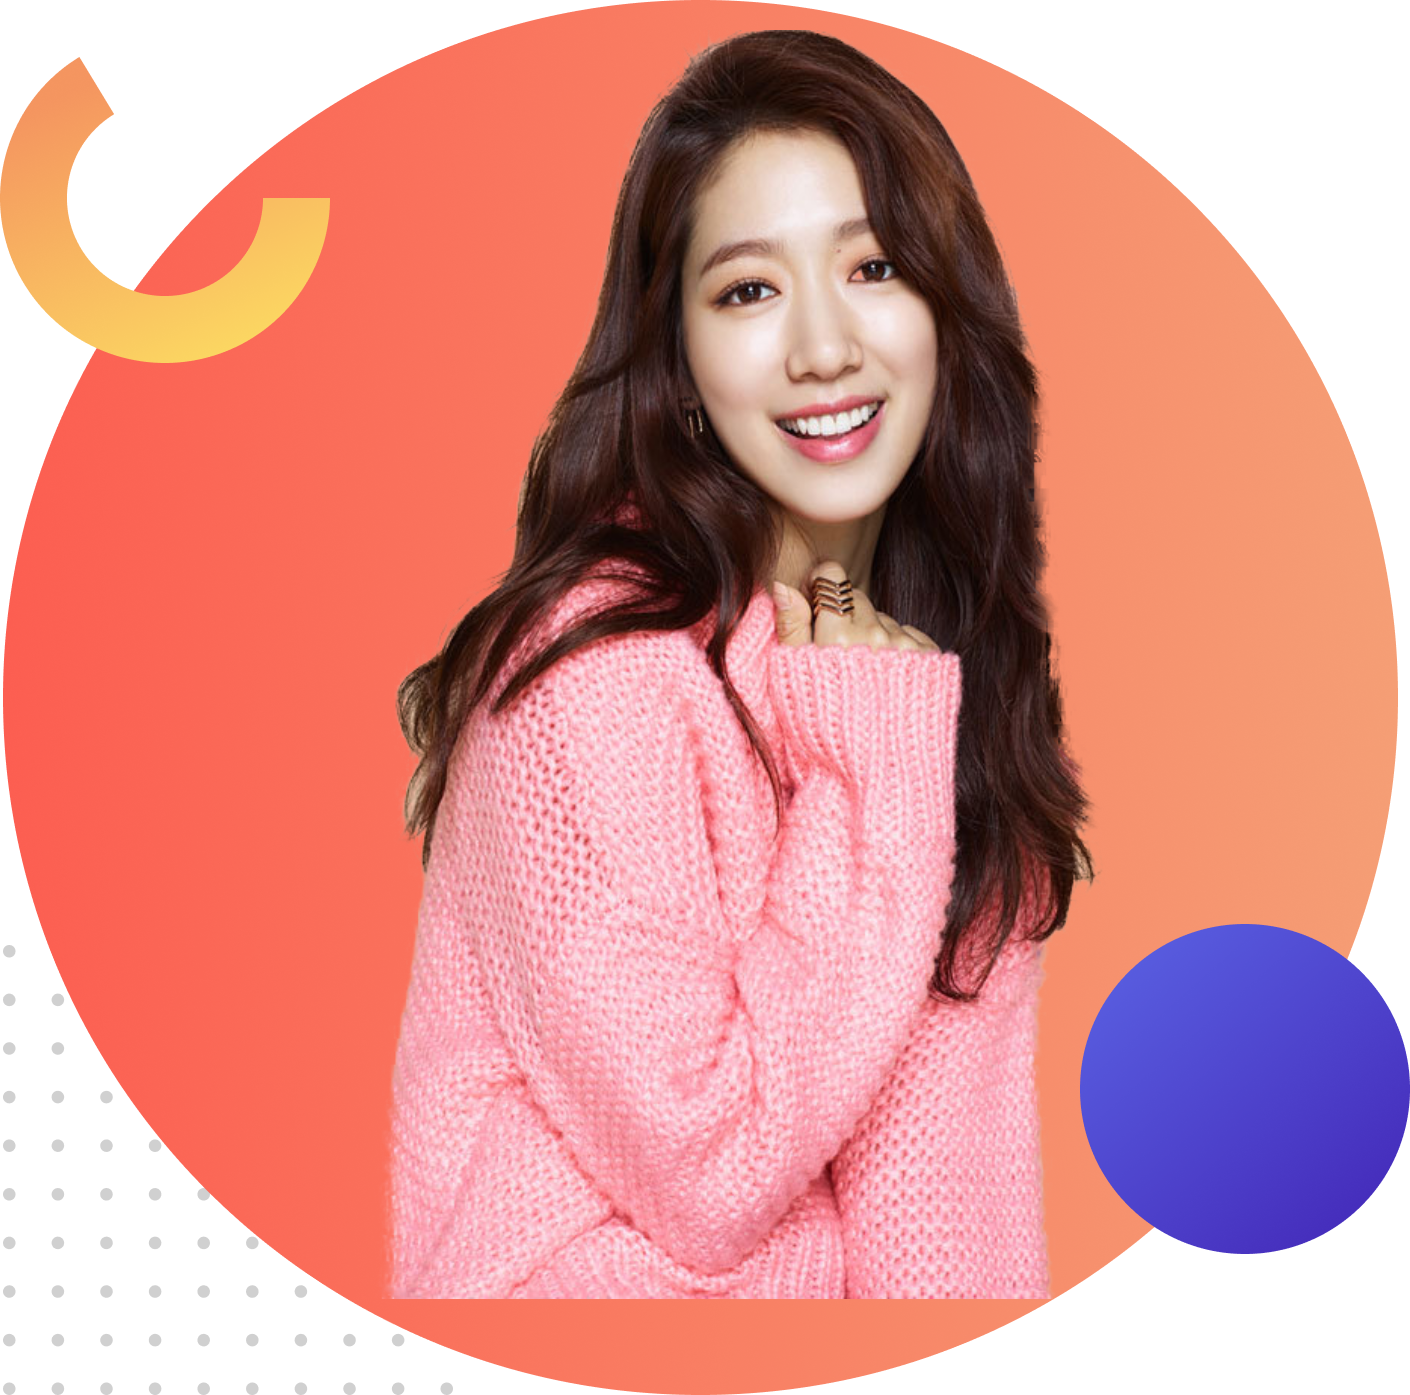
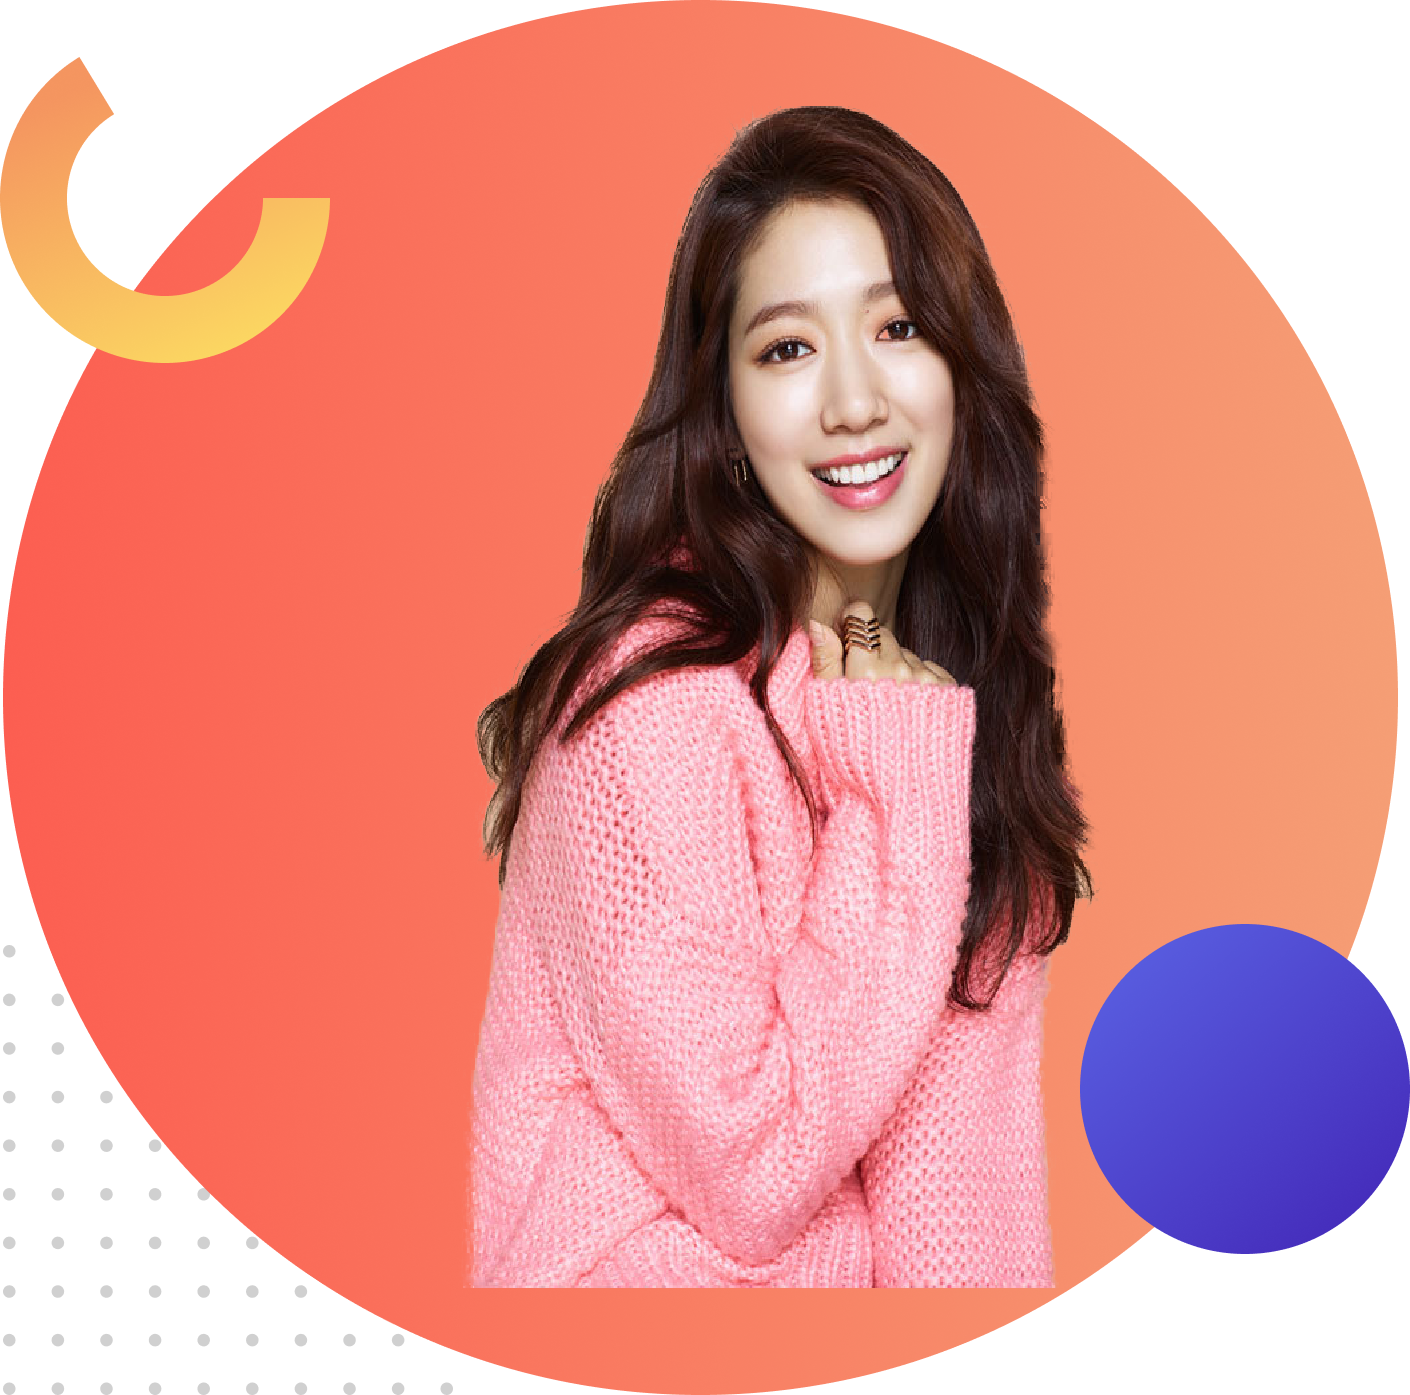
button added

Changed region(s): [[0.2496, 0.0, 0.7801, 0.9556]]

diff --git a/index.html b/index.html
@@ -5,15 +5,15 @@
     <meta charset="UTF-8">
     <meta name="viewport" content="width=device-width, initial-scale=1.0">
     <title>Susmita Web Dev</title>
-    <link href="https://fonts.googleapis.com/css2?family=Poppins:wght@100;200&display=swap" rel="stylesheet">
+    <link href="https://fonts.googleapis.com/css2?family=Poppins:wght@100;200;400&display=swap" rel="stylesheet">
     <link rel="stylesheet" href="style.css">
 </head>
 
 <body>
-    <section>
+    <section class="top-banner">
         <div class="half-width">
-            <h1>Welcome To</h1>
-            <h1><span class="text-highlight">Susmita's</span> Website</h1>
+            <h1>HELLO I'M</h1>
+            <h1><span class="text-highlight">Susmita</span> Roy</h1>
             <h3>World class web developer</h3>
             <p>A web developer is a programmer who specializes in, or is specifically engaged in, the development of
                 World Wide Web applications using a client–server model. The applications typically use HTML, CSS and
@@ -21,10 +21,12 @@
                 communications between client and server. A web content management system is often used to develop and
                 maintain web applications.
             </p>
+            <a class="link-button" target="_blank" href="https://www.linkedin.com/in/susmita-roy530/">HIRE ME</a>
         </div>
         <div class="half-width">
             <img src="images/profile.png" alt="">
         </div>
+
     </section>
 </body>
 

diff --git a/style.css b/style.css
@@ -5,15 +5,25 @@ h1{
     font-size: 50px;
 }
 .text-highlight{
-    color: orange;
+    color: tomato;
 }
 .half-width{
-    width: 40%;
+    width: 35%;
     float: left;
+    margin-top: 5%;
     margin-left: 5%;
     padding-left: 2%;
+    text-align: justify;
 
 }
 .half-width img{
     width: 100%;
+}
+.link-button{
+    text-decoration: none;
+    background-color: tomato;
+    padding: 10px 20px;
+    border-radius: 5px;
+    color: white;
+    font-weight: 700;
 }
